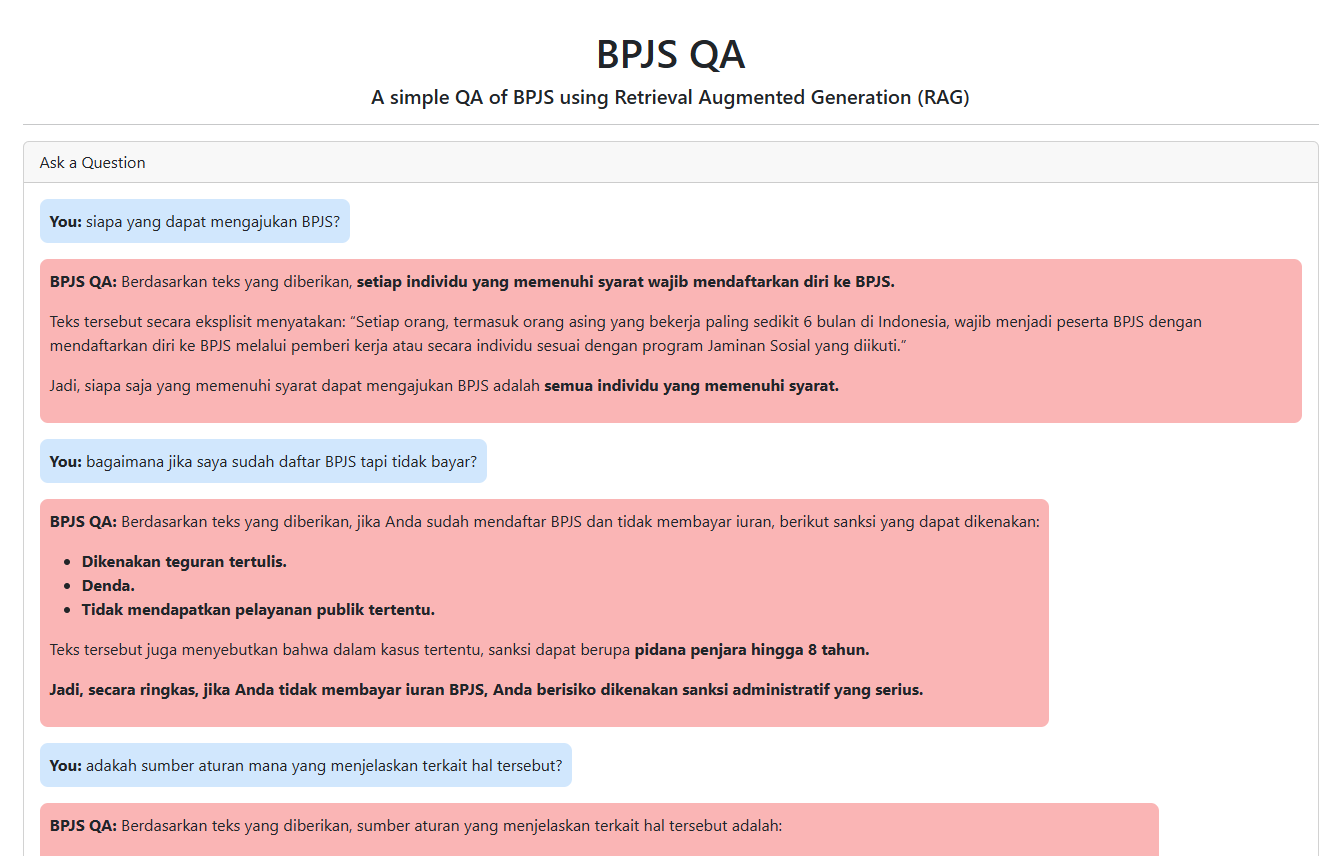
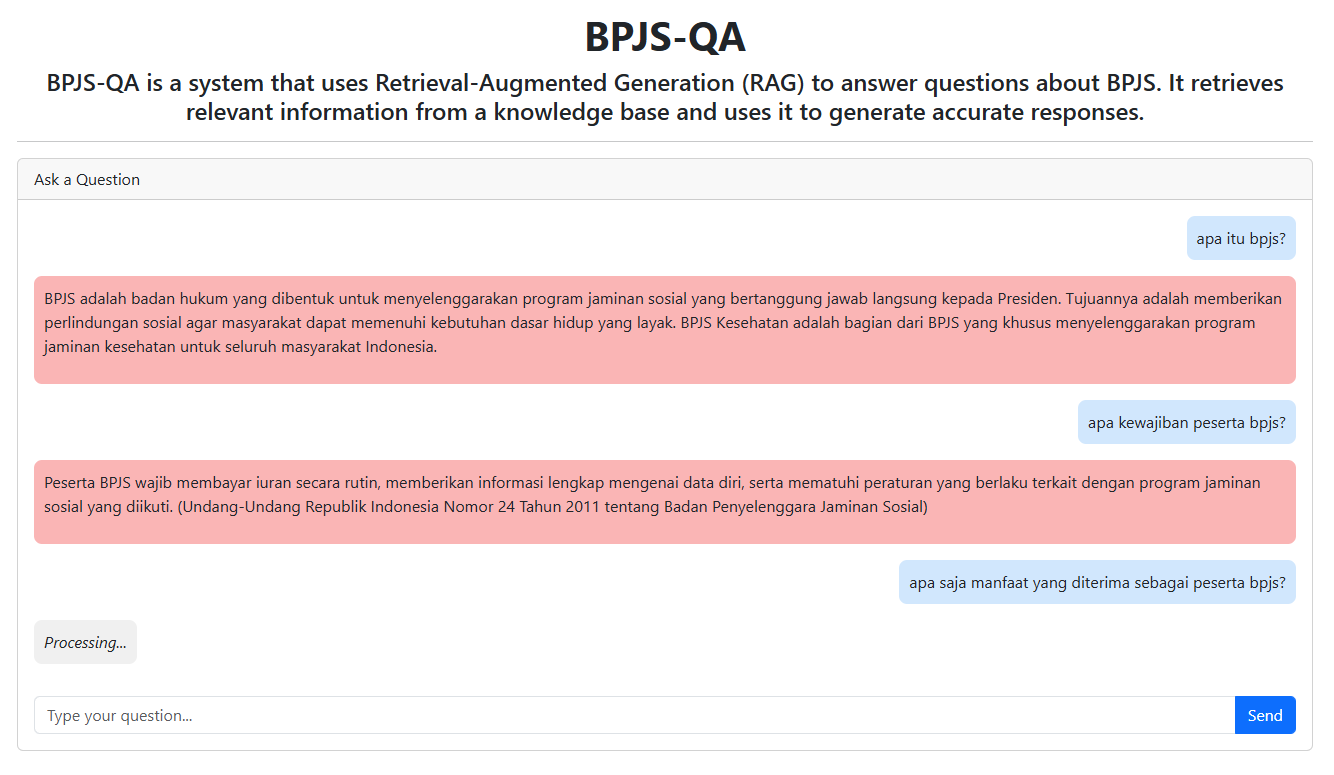
Add API mechanism using OpenRouter and fix index.html

diff --git a/templates/index.html b/templates/index.html
@@ -11,17 +11,19 @@
   </head>
   <body>
     <div class="container mt-5">
-      <h1 class="text-center">BPJS QA</h1>
-      <h5 class="text-center">
-        A simple QA of BPJS using Retrieval Augmented Generation (RAG)
-      </h5>
+      <h1 class="text-center" style="font-weight: bold">BPJS-QA</h1>
+      <h4 class="text-center">
+        BPJS-QA is a system that uses Retrieval-Augmented Generation (RAG) to
+        answer questions about BPJS. It retrieves relevant information from a
+        knowledge base and uses it to generate accurate responses.
+      </h4>
       <hr />
       <div class="card">
         <div class="card-header">Ask a Question</div>
         <div class="card-body">
           <div
             id="chat-box"
-            class="mb-3"
+            class="mb-3 d-flex flex-column"
             style="min-height: 300px; overflow-y: auto"
           >
             <!-- Chat messages will appear here -->
@@ -43,25 +45,53 @@
     <script>
       document
         .getElementById("send-btn")
-        .addEventListener("click", async () => {
-          const userInput = document.getElementById("user-input").value;
-          if (!userInput.trim()) return;
+        .addEventListener("click", sendMessage); // Call sendMessage on button click
 
-          // Display user message
-          const chatBox = document.getElementById("chat-box");
-          const userMessage = document.createElement("div");
-          userMessage.classList.add("mb-3", "text-end");
-          userMessage.innerHTML = `<strong>You:</strong> ${userInput}`;
-          userMessage.style.backgroundColor = "#d1e7fd";
-          userMessage.style.padding = "10px";
-          userMessage.style.borderRadius = "8px";
-          userMessage.style.display = "table";
-          chatBox.appendChild(userMessage);
-          chatBox.scrollTop = chatBox.scrollHeight;
+      document
+        .getElementById("user-input")
+        .addEventListener("keypress", (event) => {
+          // Check if the Enter key is pressed
+          if (event.key === "Enter") {
+            event.preventDefault(); // Prevent the default action (form submission)
+            sendMessage(); // Call the sendMessage function
+          }
+        });
 
-          // Clear input field
-          document.getElementById("user-input").value = "";
+      async function sendMessage() {
+        const userInput = document.getElementById("user-input").value;
+        if (!userInput.trim()) return;
 
+        const chatBox = document.getElementById("chat-box");
+
+        // Display user message
+        const userMessage = document.createElement("div");
+        userMessage.classList.add("mb-3");
+        userMessage.style.alignSelf = "flex-end";
+        userMessage.innerHTML = `${userInput}`;
+        userMessage.style.backgroundColor = "#d1e7fd";
+        userMessage.style.padding = "10px";
+        userMessage.style.borderRadius = "8px";
+        userMessage.style.display = "table";
+        chatBox.appendChild(userMessage);
+        chatBox.scrollTop = chatBox.scrollHeight;
+
+        // Clear input field
+        document.getElementById("user-input").value = "";
+
+        // Show loading message
+        const loadingMessage = document.createElement("div");
+        loadingMessage.classList.add("mb-3");
+        loadingMessage.style.alignSelf = "flex-start";
+        loadingMessage.innerHTML = `<em>Processing...</em>`;
+        loadingMessage.id = "loading-message"; // Add an ID for easy removal later
+        loadingMessage.style.backgroundColor = "#f0f0f0";
+        loadingMessage.style.padding = "10px";
+        loadingMessage.style.borderRadius = "8px";
+        loadingMessage.style.display = "table";
+        chatBox.appendChild(loadingMessage);
+        chatBox.scrollTop = chatBox.scrollHeight;
+
+        try {
           // Send request to the server
           const response = await fetch("/chat", {
             method: "POST",
@@ -70,21 +100,34 @@
             },
             body: JSON.stringify({ question: userInput }),
           });
-
+          // Parse JSON response
           const data = await response.json();
+          // Remove loading message
+          loadingMessage.remove();
           // Display bot response
           const botMessage = document.createElement("div");
-          botMessage.classList.add("mb-3", "text-start");
-          botMessage.innerHTML = marked.parse(
-            `<strong>BPJS QA:</strong> ${data.response}`
-          );
+          botMessage.classList.add("mb-3");
+          botMessage.style.alignSelf = "flex-start";
+          botMessage.innerHTML = marked.parse(`${data.response}`);
           botMessage.style.backgroundColor = "#fab5b5ff";
           botMessage.style.padding = "10px";
           botMessage.style.borderRadius = "8px";
           botMessage.style.display = "table";
           chatBox.appendChild(botMessage);
           chatBox.scrollTop = chatBox.scrollHeight;
-        });
+        } catch (error) {
+          // Remove loading message
+          loadingMessage.remove();
+          // Display error message
+          console.error("Error:", error);
+          const errorMessage = document.createElement("div");
+          errorMessage.classList.add("mb-3", "text-danger");
+          errorMessage.style.alignSelf = "flex-start";
+          errorMessage.innerHTML = `Unable to process your request. Please try again later.`;
+          chatBox.appendChild(errorMessage);
+          chatBox.scrollTop = chatBox.scrollHeight;
+        }
+      }
     </script>
   </body>
 </html>

diff --git a/services/chat.py b/services/chat.py
@@ -1,14 +1,27 @@
 import json
 import ollama
+import re
 from sentence_transformers import SentenceTransformer
-from config.environment import OLLAMA_HOST, OLLAMA_MODEL, SENTENCE_TRANSFORMER_MODEL
+from config.environment import OLLAMA_HOST, OLLAMA_MODEL, SENTENCE_TRANSFORMER_MODEL, OPENROUTER_API_URL, OPENROUTER_API_KEY, OPENROUTER_MODEL
+from openai import OpenAI
 
-def chat_with_ollama(connection, user_input):
-    llm_agent = ollama.Client(host=OLLAMA_HOST)
+def perform_rag(connection, user_input, type):
+    # Initialize the SentenceTransformer model
     model = SentenceTransformer(SENTENCE_TRANSFORMER_MODEL)
+    # Perform document retrieval
     retrieved_docs = search_document(connection, user_input, model)
+    # Create the prompt with the retrieved documents
     context = "\n".join([doc['doc'] for doc in retrieved_docs])
     prompt = f"Context: {context}\n\nQuestion: {user_input}\nAnswer:"
+    if type == 'ollama':
+      # Get the response from Ollama
+      return chat_with_ollama(prompt)
+    elif type == 'openrouter':
+      # Get the response from OpenRouter
+      return chat_with_open_router(prompt)
+
+def chat_with_ollama(prompt):
+    llm_agent = ollama.Client(host=OLLAMA_HOST)
     response = llm_agent.chat(model=OLLAMA_MODEL, messages=[
         {
             "role": "user", 
@@ -16,7 +29,39 @@ def chat_with_ollama(connection, user_input):
         }
     ])
     # return response
-    return response['message']['content']
+    content = response['message']['content']
+    return remove_thinking(content)
+
+def chat_with_open_router(prompt):
+    client = OpenAI(
+      base_url=OPENROUTER_API_URL,
+      api_key=OPENROUTER_API_KEY,
+    )
+    completion = client.chat.completions.create(
+      extra_headers={},
+      extra_body={},
+      model=OPENROUTER_MODEL,
+      messages=[
+        {
+          "role": "user",
+          "content": [
+            {
+              "type": "text",
+              "text": prompt
+            }
+          ]
+        }
+      ]
+    )
+    # print(completion)
+    return completion.choices[0].message.content
+
+def remove_thinking(text):
+  # Regular expression to remove <think> tags and their content
+  cleaned_content = re.sub(r"<think>.*?</think>", "", text, flags=re.DOTALL)
+  # Strip any extra whitespace
+  cleaned_content = cleaned_content.strip()
+  return cleaned_content
 
 def search_document(connection, query, model, top_k=5):
   results = []

diff --git a/app.py b/app.py
@@ -1,6 +1,6 @@
 from flask import Flask, render_template, request, jsonify
 from config import database
-from services.chat import chat_with_ollama
+from services.chat import perform_rag
 import knowledge_embedding
 
 app = Flask(__name__)
@@ -15,7 +15,7 @@ def chat():
     user_input_lower = str(user_input).lower()
     db = database.Database()
     connection = db.get_connection()
-    response = chat_with_ollama(connection, user_input_lower)
+    response = perform_rag(connection, user_input_lower, type='openrouter')
     db.close_connection(connection)
 
     if response:

diff --git a/config/environment.py b/config/environment.py
@@ -15,3 +15,7 @@ OLLAMA_MODEL=os.getenv('OLLAMA_MODEL')
 OLLAMA_API_URL=os.getenv('OLLAMA_API_URL')
 
 SENTENCE_TRANSFORMER_MODEL=os.getenv('SENTENCE_TRANSFORMER_MODEL')
+
+OPENROUTER_API_URL=os.getenv('OPENROUTER_API_URL')
+OPENROUTER_API_KEY=os.getenv('OPENROUTER_API_KEY')
+OPENROUTER_MODEL=os.getenv('OPENROUTER_MODEL')

diff --git a/README.md b/README.md
@@ -1,8 +1,14 @@
 # BPJS-QA
 
-A simple QA of BPJS using Retrieval Augmented Generation (RAG).
+BPJS-QA is a system that uses Retrieval-Augmented Generation (RAG) to answer questions about BPJS. It retrieves relevant information from a knowledge base and uses it to generate accurate responses.
 
 ![BPJS-QA](./screenshoot-bpjsqa.png)
+
+## Model
+
+You may use some models, free or paid. But, in this case, I use `google/gemma-3-27b-it:free` model from [OpenRouterAI](https://openrouter.ai).
+
+![alt text](./rag-flow.png)
 
 ## Installing `uv`
 
@@ -45,6 +51,9 @@ pipx install uv
   OLLAMA_MODEL=
   OLLAMA_API_URL=
   SENTENCE_TRANSFORMER_MODEL=
+  OPENROUTER_API_URL=
+  OPENROUTER_API_KEY=
+  OPENROUTER_MODEL=
   ```
 - Create folder `data` and add `bpjs_kb.csv`
 - Install libraries using command `uv sync`
